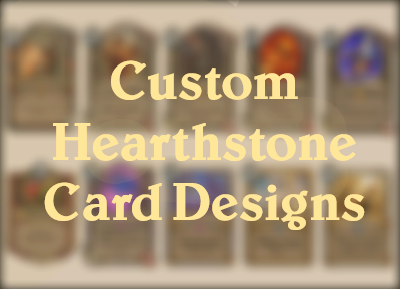
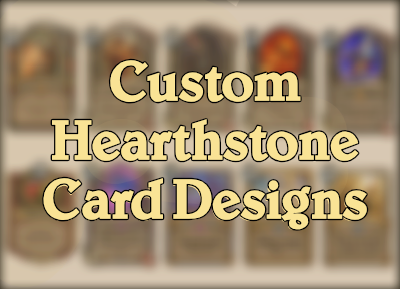
Added more descriptions for HS card descriptions, updated cover image

Changed region(s): [[0.09, 0.5917, 0.93, 0.8097], [0.12, 0.4048, 0.9, 0.5606], [0.27, 0.1869, 0.75, 0.3737]]

diff --git a/index.html b/index.html
@@ -613,19 +613,26 @@
 			  <h3 class="section-heading">Sylvanas, Banshee Queen</h3>
 			  <hr class="black-line">
 			  <img class="img-fluid mb-5" src="img/portfolio/Hearthstone Cards/Sylvanas, Banshee Queen.png" alt="">
-			  <p class="mb-5">For this design I considered that, as a banshee, she would be capable of Psychic Scream, as per the Battle for Azeroth cinematic trailer. But she is also much, much more powerful than just that alone, with this version drawing the minions to your side, but at great sacrifice, as per the Forsaken way. This could be used as her tradition effect, stealing an enemy minion at the cost of one of your cards, while also being capable of clearing the board and leaving you with a nice 5/5 at the cost of a large portion of your deck.</p>
+			  <figcaption><i>"You will learn my sacrifice!"</i> - Intro Quip</figcaption><br>
+			  <p class="mb-5 text-left">For this design I considered that, as a banshee, she would be capable of Psychic Scream, as per the Battle for Azeroth cinematic trailer. But she is also much, much more powerful than just that alone, with this version drawing the minions to your side, but at great sacrifice, as per the Forsaken way. This could be used as her tradition effect, stealing an enemy minion at the cost of one of your cards, while also being capable of clearing the board and leaving you with a nice 5/5 at the cost of a large portion of your deck.</p>
 			  <h3 class="section-heading">Millhouse, Spellstorm</h3>
 			  <hr class="black-line">
 			  <img class="img-fluid mb-5" src="img/portfolio/Hearthstone Cards/Millhouse, Spellstorm.png" alt="">
-			  <p class="mb-5">The Card</p>
+			  <figcaption><i>"Fear the fury of the majestic Millhouse's spellstorm!"</i> - Intro Quip</figcaption><br>
+			  <p class="mb-5  text-left">With Millhouse being the 'in-over-his-head', powerful, clumsy mage that he is, I wanted to retain most of the iconic flavour from his original card design; that of being a powerful wizard at the cost of making an utter fool of himself. So I reimagined him as a more powerful, yet also as a high-risk high-reward archetype that suits Hearthstone's whimsical and random nature.<br>
+			  </br>With this iteration I made his effect more unpredictable while still making him a viable card in most situations. While his effect is entirely based on whether or not your opponent has spells in their hand, it is more than likely he will still deal plenty of damage (at the cost of his unpredictability). But as Millhouse the foolish wizard that he is, you will never truly know what he is capable of.</p>
 			  <h3 class="section-heading">Cho, Lore Archivist</h3>
 			  <hr class="black-line">
 			  <img class="img-fluid mb-5" src="img/portfolio/Hearthstone Cards/Cho, Lore Archivist.png" alt="">
-			  <p class="mb-5">The Card</p>
+			  <figcaption><i>"Knowledge is a double-edged sword."</i> - Intro Quip</figcaption><br>
+			  <p class="mb-5  text-left">Lorewalker Cho has always been one of the weaker cards in the game, while also remaining as one of the most interesting tech cards. His flavour suits his peaceful, neutral stance amongst both sides. But I wanted enhance that to be a somewhat-controllable ability for the player who plays this card, while still also benefitting both players at a whole.<br>
+			  </br>This reimagining allows Cho to still defend himself from attackers with his defensive-like stats, while also maintaining a reasonable mana cost for a legendary minion and his reluctancy to attack. But the meat of this card lies in his flavour, his newfound title as 'Lore Archivist', as instead of giving a copy of the spell you played to your opponent, he instead shuffles a copy into both decks. This can be manipulated by a variety of other tech cards from either player, like card draw or card theft. But obviously the player using this card has the greater opportunity to utilize this ability to the fullest.</p>
 			  <h3 class="section-heading">Ragnaros, Fireland's Rage</h3>
 			  <hr class="black-line">
 			  <img class="img-fluid mb-5" src="img/portfolio/Hearthstone Cards/Ragnaros, Fireland's Rage.png" alt="">
-			  <p class="mb-5">The Card</p>
+			  <figcaption><i>"FLEE, LITTLE INSECTS, IN THE WAKE OF MY RAGE!"</i> - Intro Quip</figcaption><br>
+			  <p class="mb-5  text-left">It's no secret that Ragnaros, Firelord has been one of the most powerful cards in Hearthstone's history. It was so powerful that it was moved out of standard and into the Hall of Fame for wild play only. His nature as one of the most iconic and powerful foes in Warcraft's lore was his downfall, as he represented the sheer, raw, insurmountable power of the Firelands and he couldn't be anything but powerful. So I attempted to match his raid mechanics and flavour as a character to balance the Firelord as a more reasonable card that could return to the meta.<br>
+			  </br>His whole 'summon me when I have built up enough strength to purge Azeroth' personality perfectly transformed into a mechanic, where he starts off weak but the longer he lives, the stronger he gets. This almost mirrors his raid mechanics as the closer to defeat he becomes, the further his rage is fueled into damage, dealing up to 13 damage minimum. This may seem overly powerful, but which hard removal at most classes' disposal, and his hefty mana cost of 10, he requires a lot of luck and setup to remain a threat.</p>
 			  <h3 class="section-heading">Eildrassil, World Tree Sapling</h3>
 			  <hr class="black-line">
 			  <img class="img-fluid mb-5" src="img/portfolio/Hearthstone Cards/Eildrassil, World Tree Sapling.png" alt="">
